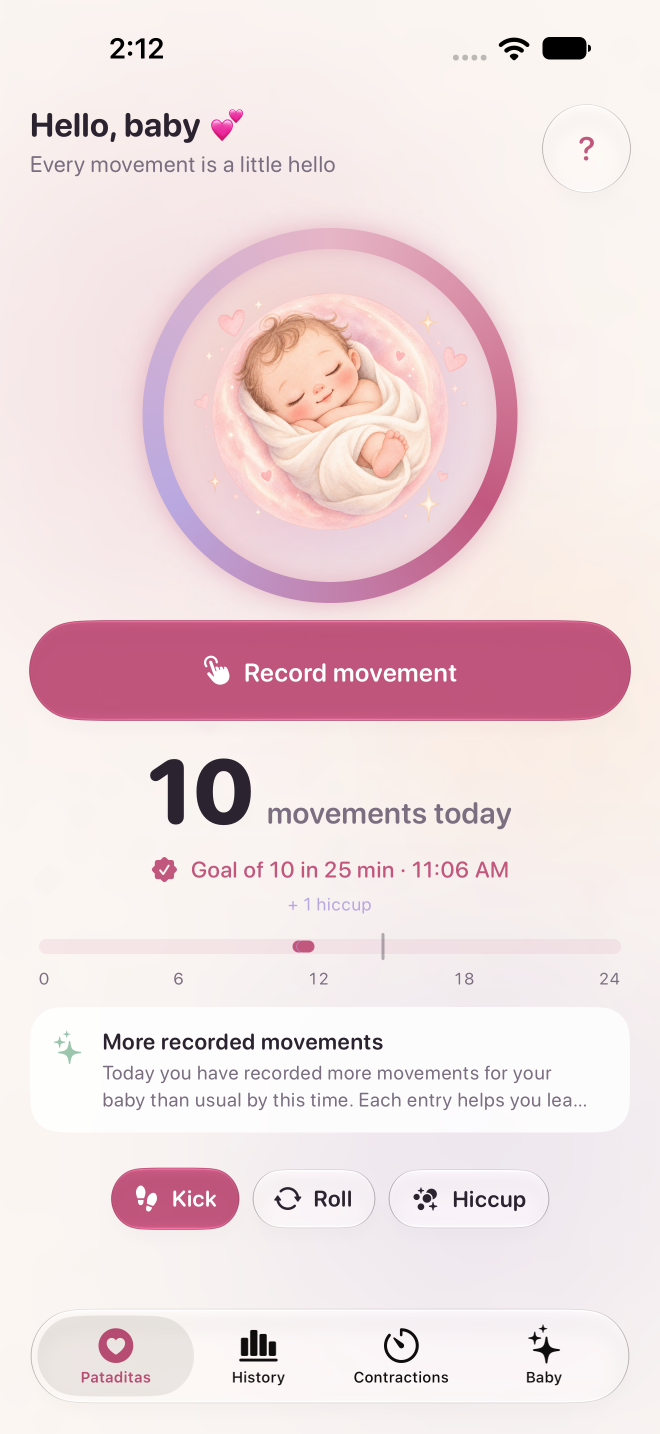
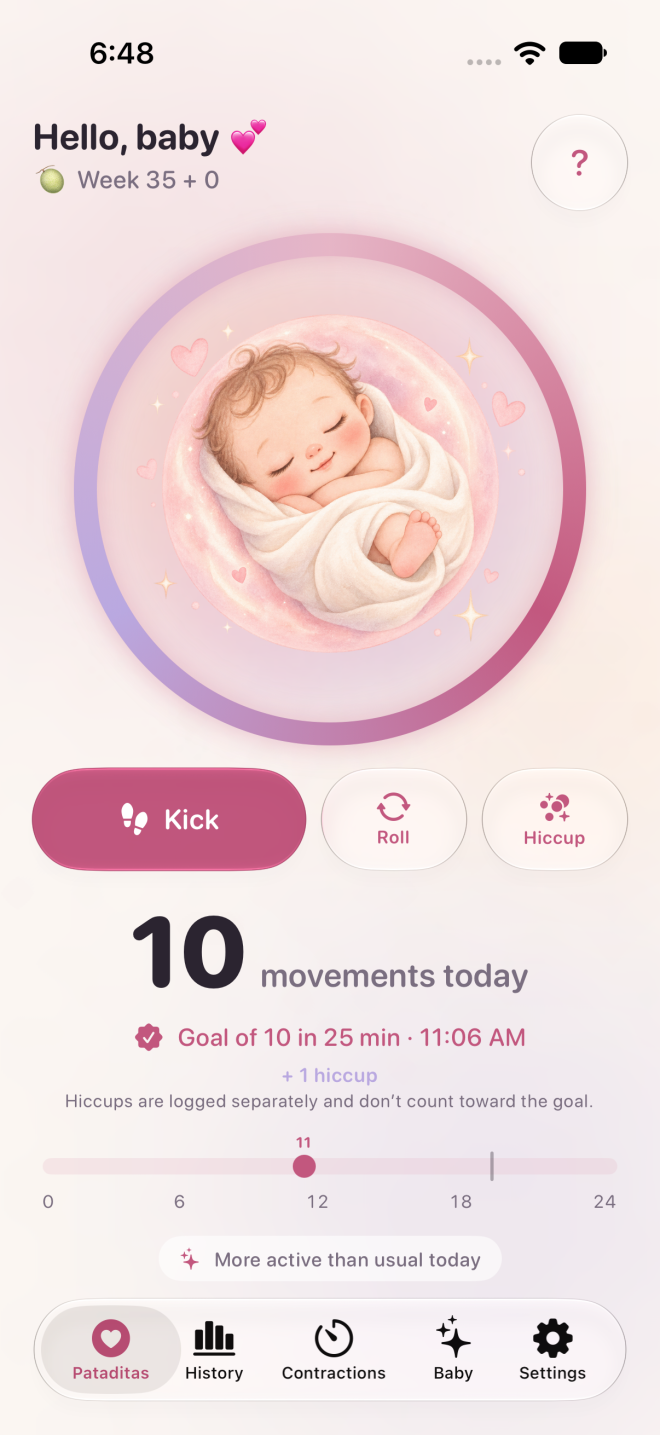
Update current app screenshots and direct one-tap usage guides

diff --git a/pt-br/guide.html b/pt-br/guide.html
@@ -147,7 +147,7 @@
 <p><a href="./">Pataditas</a> / Como usar o Pataditas</p><h1>Como registrar os movimentos do bebê no Pataditas</h1><p class="meta">Guia do produto por Kaelux · Atualizado em 13 de outubro de 2026</p>
 <p class="lead">O Pataditas é um diário privado de gravidez para iPhone. Você registra os movimentos que sente e o aplicativo salva o horário e o tipo. Este guia explica o uso do produto, não um método médico de contagem.</p><p class="release-note">Em breve na App Store. A versão pública para iPhone está aguardando a revisão da Apple.</p>
 
-<h2>Registre um movimento em quatro passos</h2><ol class="guide-steps"><li><h3>Abra a tela de movimentos</h3><p>Conclua ou pule a personalização opcional. Se aparecer a oferta do Plus, feche-a para continuar com a contagem grátis.</p></li><li><h3>Escolha o tipo de movimento</h3><p>Selecione Chutinho, Giro ou Soluço. Os soluços são salvos no diário, mas não contam para o grupo de movimentos.</p></li><li><h3>Toque em Registrar movimento</h3><p>Use o botão com esse nome ou a ilustração central. Cada toque salva um registro com seu horário; você não precisa iniciar um cronômetro.</p></li><li><h3>Corrija um toque acidental</h3><p>Use a opção temporária Desfazer logo após registrar se você tocou por engano.</p></li></ol>
+<h2>Registre um movimento em quatro passos</h2><ol class="guide-steps"><li><h3>Abra a tela de movimentos</h3><p>Conclua ou pule a personalização opcional. Se aparecer a oferta do Plus, feche-a para continuar com a contagem grátis.</p></li><li><h3>Registre com um toque</h3><p>Toque em Chutinho, Giro ou Soluço. Cada botão salva imediatamente seu tipo de movimento. Os soluços ficam no diário, mas não contam para um grupo de movimentos.</p></li><li><h3>Use a barriguinha para os chutinhos</h3><p>Um toque na ilustração central registra um chutinho. Não é preciso escolher um modo nem iniciar um cronômetro.</p></li><li><h3>Corrija um toque acidental</h3><p>Use a opção temporária Desfazer logo após registrar se você tocou por engano.</p></li></ol>
 <figure class="app-preview"><img src="../assets/app-counter-pt.webp" width="660" height="1434" loading="lazy" decoding="async" alt="Tela real do Pataditas com registros de demonstração."><figcaption>Tela real do Pataditas com registros de demonstração.</figcaption></figure>
 <h2>O que mostram o histórico e os gráficos</h2><p>O histórico grátis mostra os últimos sete dias. O Plus acrescenta o histórico completo da gravidez, gráficos de padrões e um relatório PDF. As comparações usam apenas o que você registrou; registros ausentes podem alterá-las.</p><h2>O que significa a celebração de 10 movimentos</h2><p>O Pataditas agrupa 10 chutes ou viradas registrados em duas horas. Isso não avalia a saúde do bebê nem define uma meta diária universal. Siga as orientações da sua equipe de saúde.</p>
 <aside class="disclaimer">Se os movimentos diminuírem, pararem ou mudarem, contate imediatamente sua equipe de maternidade. Não espere pelo aplicativo nem até amanhã.</aside><h2>Seus registros continuam privados</h2><p>Você pode registrar movimentos sem internet. Com o iCloud ativado, eles são sincronizados pela sua conta privada do iCloud. Não é preciso criar uma conta no Pataditas, e o desenvolvedor não pode ler seu diário.</p><p><a href="privacy.html">Seus registros continuam privados →</a></p>

diff --git a/es/guide.html b/es/guide.html
@@ -147,7 +147,7 @@
 <p><a href="./">Pataditas</a> / Cómo usar Pataditas</p><h1>Cómo registrar los movimientos de tu bebé en Pataditas</h1><p class="meta">Guía del producto por Kaelux · Actualizada el 13 de octubre de 2026</p>
 <p class="lead">Pataditas es un diario privado de embarazo para iPhone. Tú registras los movimientos que sientes y la app guarda la hora y el tipo. Esta guía explica cómo usar el producto; no indica un método médico de conteo.</p><p class="release-note">Próximamente en App Store. La versión pública para iPhone está pendiente de revisión por Apple.</p>
 
-<h2>Registra un movimiento en cuatro pasos</h2><ol class="guide-steps"><li><h3>Abre la pantalla de movimientos</h3><p>Completa u omite la personalización opcional. Si aparece la oferta de Plus, ciérrala para continuar con el conteo gratis.</p></li><li><h3>Elige el tipo de movimiento</h3><p>Selecciona Patadita, Giro o Hipo. El hipo se guarda en el diario, pero no cuenta para el grupo de movimientos.</p></li><li><h3>Toca Registrar movimiento</h3><p>Usa el botón con ese nombre o la ilustración central. Cada toque guarda un registro con su hora; no necesitas iniciar un cronómetro.</p></li><li><h3>Corrige un toque accidental</h3><p>Usa la opción temporal Deshacer justo después de registrar si te equivocaste.</p></li></ol>
+<h2>Registra un movimiento en cuatro pasos</h2><ol class="guide-steps"><li><h3>Abre la pantalla de movimientos</h3><p>Completa u omite la personalización opcional. Si aparece la oferta de Plus, ciérrala para continuar con el conteo gratis.</p></li><li><h3>Registra con un toque</h3><p>Toca Patadita, Giro o Hipo. Cada botón guarda directamente su tipo de movimiento. El hipo queda en el diario, pero no cuenta para el grupo de movimientos.</p></li><li><h3>Usa la pancita para las pataditas</h3><p>Tocar la ilustración central registra una patadita. No necesitas seleccionar un modo ni iniciar un cronómetro.</p></li><li><h3>Corrige un toque accidental</h3><p>Usa la opción temporal Deshacer justo después de registrar si te equivocaste.</p></li></ol>
 <figure class="app-preview"><img src="../assets/app-counter-es.webp" width="660" height="1434" loading="lazy" decoding="async" alt="Pantalla real de Pataditas con registros de demostración."><figcaption>Pantalla real de Pataditas con registros de demostración.</figcaption></figure>
 <h2>Qué muestran el historial y las gráficas</h2><p>El historial gratis muestra los últimos siete días. Plus agrega el historial completo del embarazo, gráficas de patrones y un reporte PDF. Las comparaciones usan solo lo que registraste; omitir registros puede cambiarlas.</p><h2>Qué significa la celebración de 10 movimientos</h2><p>Pataditas agrupa 10 patadas o giros registrados dentro de dos horas. No evalúa la salud del bebé ni establece una meta diaria universal. Sigue las indicaciones de tu equipo médico.</p>
 <aside class="disclaimer">Si los movimientos disminuyen, se detienen o cambian, contacta de inmediato a tu equipo de maternidad. No esperes a la app ni hasta mañana.</aside><h2>Tus registros siguen siendo privados</h2><p>Puedes registrar movimientos sin internet. Con iCloud activado, se sincronizan mediante tu cuenta privada de iCloud. No necesitas una cuenta de Pataditas y la persona desarrolladora no puede leer tu diario.</p><p><a href="privacy.html">Tus registros siguen siendo privados →</a></p>

diff --git a/guide.html b/guide.html
@@ -147,7 +147,7 @@
 <p><a href="./">Pataditas</a> / How to use Pataditas</p><h1>How to record baby movements in Pataditas</h1><p class="meta">Product guide by Kaelux · Updated October 13, 2026</p>
 <p class="lead">Pataditas is a private pregnancy journal for iPhone. You record the movements you feel; the app saves the time and movement type. This guide explains the actual app workflow, not a medical counting prescription.</p><p class="release-note">Coming soon on the App Store. The public iPhone release is awaiting Apple review.</p>
 
-<h2>Record a movement in four steps</h2><ol class="guide-steps"><li><h3>Open the movement screen</h3><p>Complete or skip the optional personalization. If the Plus offer appears, close it to continue with free counting.</p></li><li><h3>Choose the movement type</h3><p>Choose Kick, Roll or Hiccups. Hiccups are saved in the diary but do not count toward the movement group.</p></li><li><h3>Tap Log movement</h3><p>Use the labeled button or the central illustration. Each tap saves one entry with its time; you do not need to start a timer.</p></li><li><h3>Correct an accidental tap</h3><p>Tap the temporary Undo option immediately after logging if you recorded something by mistake.</p></li></ol>
+<h2>Record a movement in four steps</h2><ol class="guide-steps"><li><h3>Open the movement screen</h3><p>Complete or skip the optional personalization. If the Plus offer appears, close it to continue with free counting.</p></li><li><h3>Log with one tap</h3><p>Tap Kick, Roll or Hiccups. Each button immediately saves its own movement type. Hiccups stay in the diary but do not count toward a movement group.</p></li><li><h3>Use the large illustration for kicks</h3><p>A tap on the central illustration logs one kick. There is no movement mode to select and no timer to start.</p></li><li><h3>Correct an accidental tap</h3><p>Tap the temporary Undo option immediately after logging if you recorded something by mistake.</p></li></ol>
 <figure class="app-preview"><img src="assets/app-counter-en.webp" width="660" height="1434" loading="lazy" decoding="async" alt="Actual Pataditas interface with demonstration records."><figcaption>Actual Pataditas interface with demonstration records.</figcaption></figure>
 <h2>What the history and charts show</h2><p>The free history shows the last seven days. Plus adds full pregnancy history, pattern charts and a PDF report. Comparisons use only the movements you entered; missing entries can change them.</p><h2>What the 10-movement celebration means</h2><p>Pataditas groups 10 logged kicks or rolls within two hours. This is not a health assessment or a universal daily target. Follow your care team’s guidance.</p>
 <aside class="disclaimer">If movements slow, stop or change, contact your maternity team immediately. Do not wait for the app or until tomorrow.</aside><h2>Your records stay private</h2><p>Movement logging works offline. When iCloud is enabled, records sync through your own private iCloud account. No Pataditas account is required, and the developer cannot read your pregnancy diary.</p><p><a href="privacy.html">Your records stay private →</a></p>
